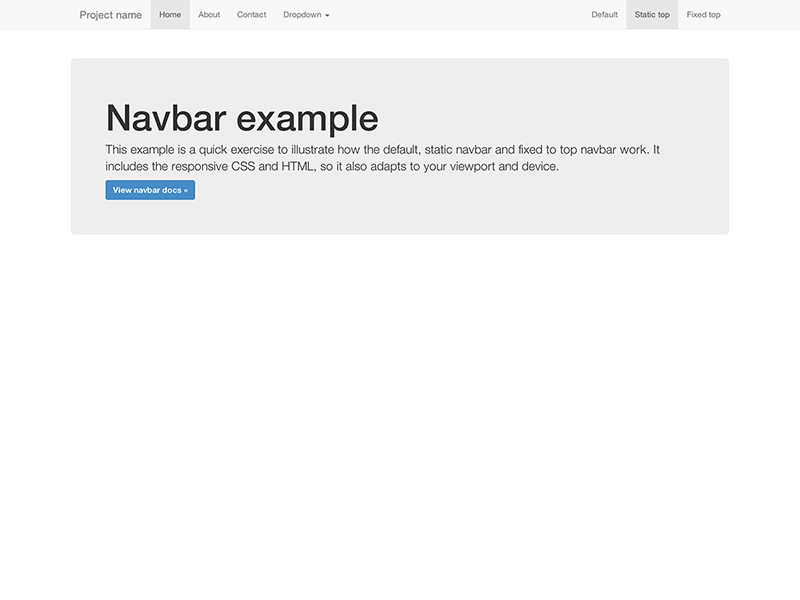
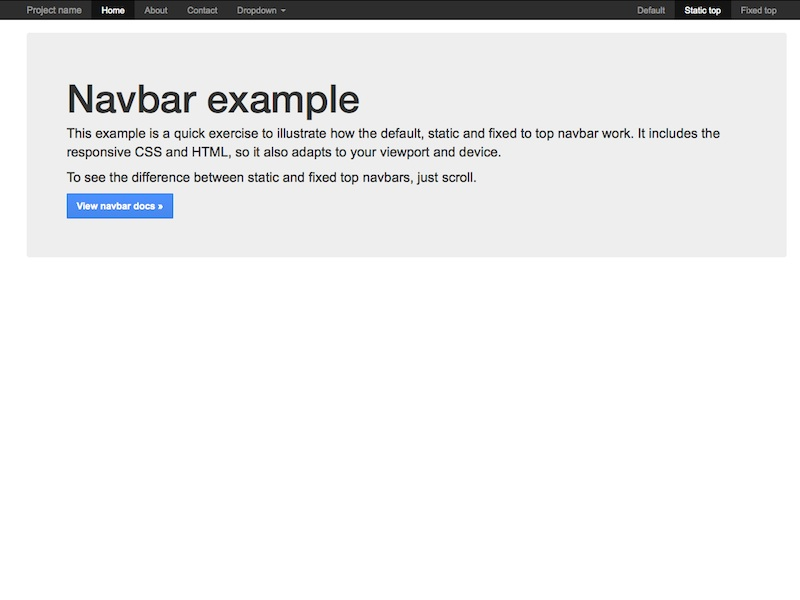
update the navbar static top example to support todc-bootstrap
#117

Changed region(s): [[0.0625, 0.12, 0.9062, 0.39], [0.0, 0.0, 1.0, 0.06]]

diff --git a/examples/navbar-static-top/index.html b/examples/navbar-static-top/index.html
@@ -8,10 +8,13 @@
     <meta name="author" content="">
     <link rel="shortcut icon" href="../../docs-assets/ico/favicon.png">
 
-    <title>Static Top Navbar Example for Bootstrap</title>
+    <title>Static Top Navbar Example for TODC Bootstrap</title>
 
     <!-- Bootstrap core CSS -->
     <link href="../../dist/css/bootstrap.css" rel="stylesheet">
+
+    <!-- TODC Bootstrap core CSS -->
+    <link href="../../dist/css/todc-bootstrap.css" rel="stylesheet">
 
     <!-- Custom styles for this template -->
     <link href="navbar-static-top.css" rel="stylesheet">
